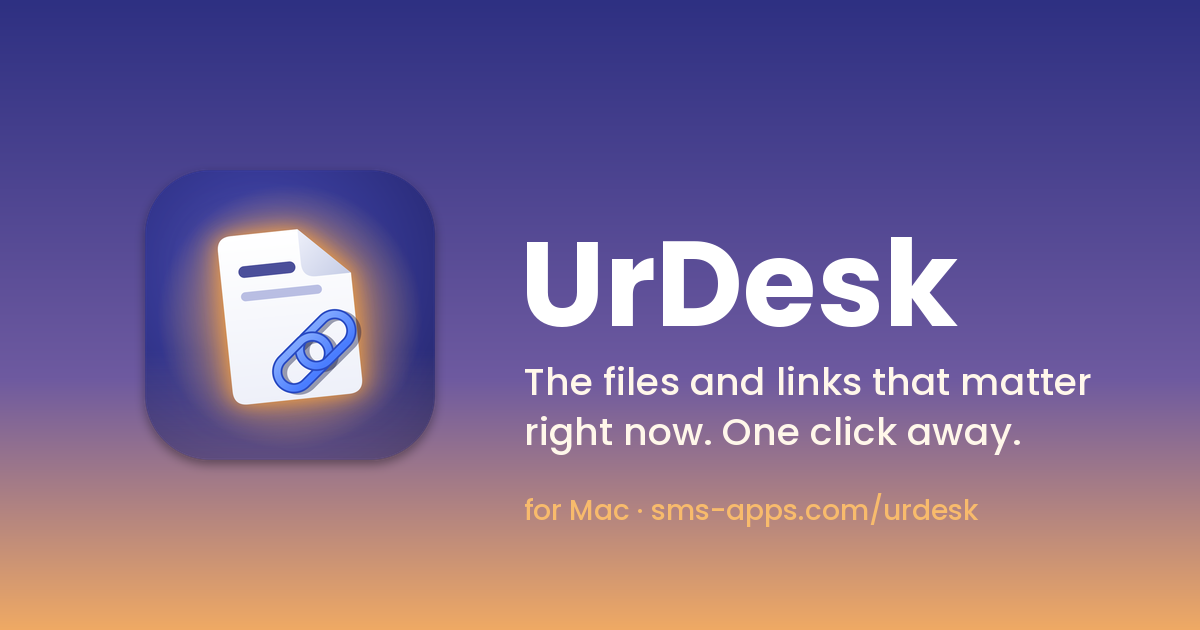
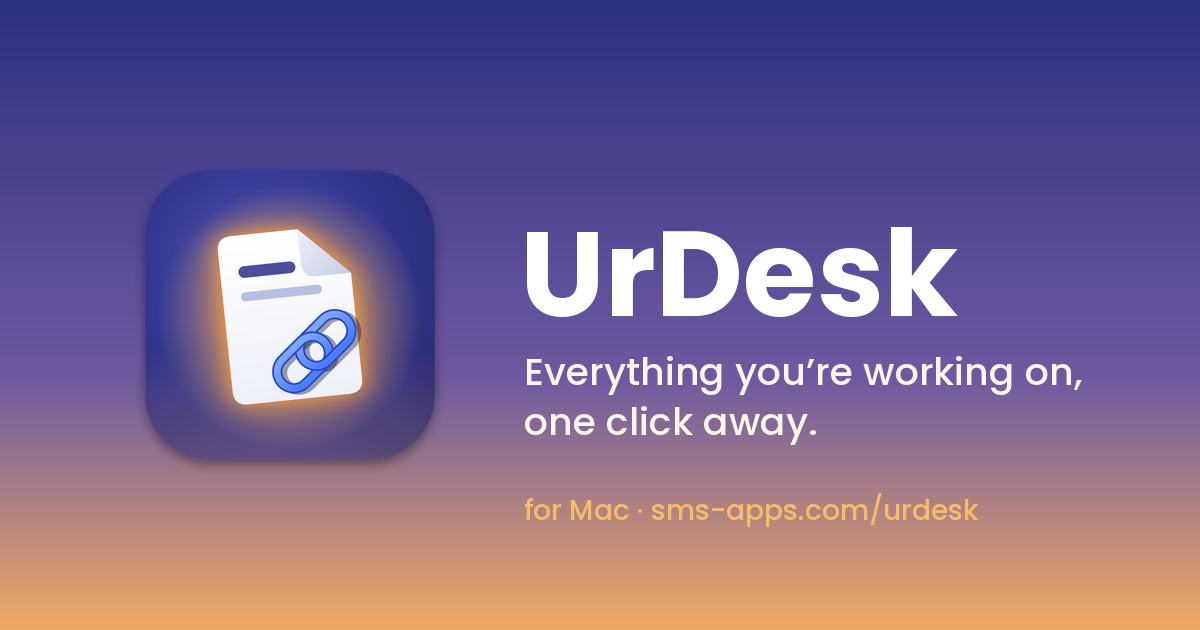
UrDesk copy: "one click away" headline, no-searching subline, matching social card
Claude-Session: https://claude.ai/code/session_013CujMaDombjgAs4f2LpEm3

diff --git a/urdesk/index.html b/urdesk/index.html
@@ -3,14 +3,14 @@
 <head>
 <meta charset="utf-8">
 <meta name="viewport" content="width=device-width, initial-scale=1, viewport-fit=cover">
-<title>UrDesk: your work at a glance, for Mac</title>
+<title>UrDesk: everything you’re working on, one click away, for Mac</title>
 <meta name="description" content="UrDesk keeps the files and links you're working on in one place on your Mac, and quietly moves aside what you've stopped using. By SMS Apps.">
 <meta name="theme-color" content="#161a3d">
 <link rel="canonical" href="https://sms-apps.com/urdesk/">
 <meta property="og:type" content="website">
 <meta property="og:site_name" content="SMS Apps">
 <meta property="og:title" content="UrDesk for Mac">
-<meta property="og:description" content="Everything you're working on, in reach and in sight. The rest quietly moves aside.">
+<meta property="og:description" content="Everything you’re working on, one click away. The rest quietly moves aside.">
 <meta property="og:url" content="https://sms-apps.com/urdesk/">
 <meta property="og:image" content="https://sms-apps.com/urdesk/media/og.png">
 <meta name="twitter:card" content="summary_large_image">
@@ -63,8 +63,8 @@
   <div class="wrap hero-copy">
     <img class="hero-icon" src="/assets/icons/urdesk.png" alt="" width="132" height="132">
     <p class="dateline">For Mac &middot; in testing</p>
-    <h1>Everything you're working on,<br><em>in reach and in sight.</em></h1>
-    <p class="lede">UrDesk is a dashboard for the files and links that matter right now. They're one click away, they glow when they need you, and the ones you've stopped using quietly move aside.</p>
+    <h1>Everything you're working on,<br><em>one click away.</em></h1>
+    <p class="lede">UrDesk keeps the files and links you’re working on right in front of you, so you stop searching, digging through folders, or opening five apps to find them. They glow when they need you, and the ones you’ve stopped using quietly move aside.</p>
     <div class="cta-row">
       <a class="btn amber" href="#get">Request early access</a>
       <a class="btn ghost" href="#watch">&#9654;&#xFE0E; Watch it work</a>

diff --git a/index.html b/index.html
@@ -62,7 +62,7 @@
           <div class="body">
             <img class="icon" src="/assets/icons/urdesk.png" alt="" width="64" height="64">
             <h3>UrDesk</h3>
-            <p class="tag">Everything you're working on, in reach and in sight.</p>
+            <p class="tag">Everything you're working on, one click away.</p>
             <p>A dashboard for the files and links that matter right now. They glow when they need you, and the rest quietly moves aside.</p>
             <ul class="chips"><li>Mac</li><li>In testing</li></ul>
             <span class="more">See it in action <span aria-hidden="true">&rarr;</span></span>
